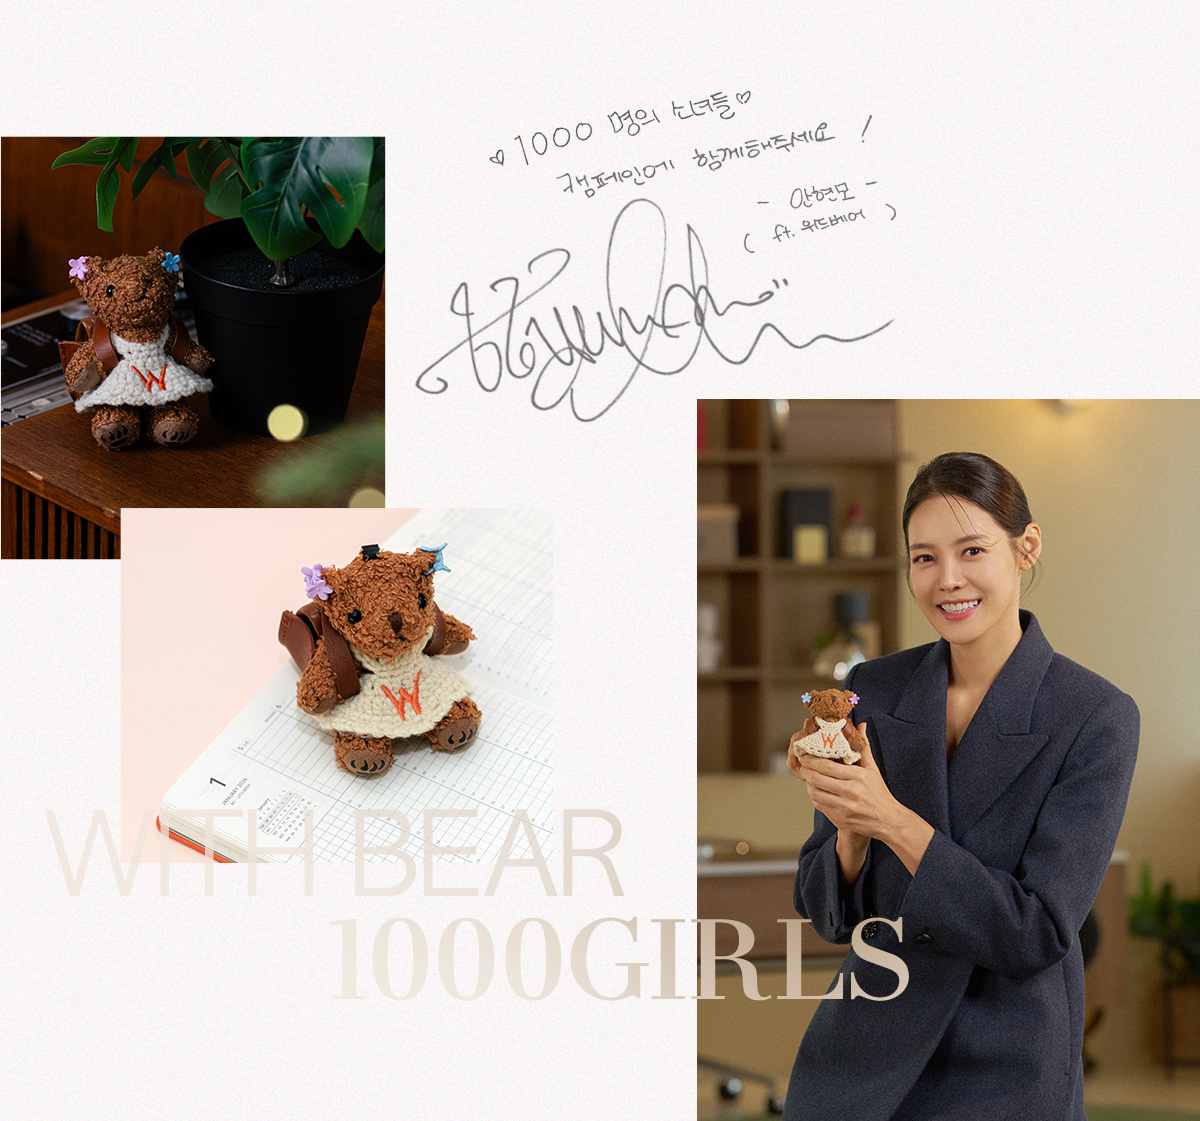
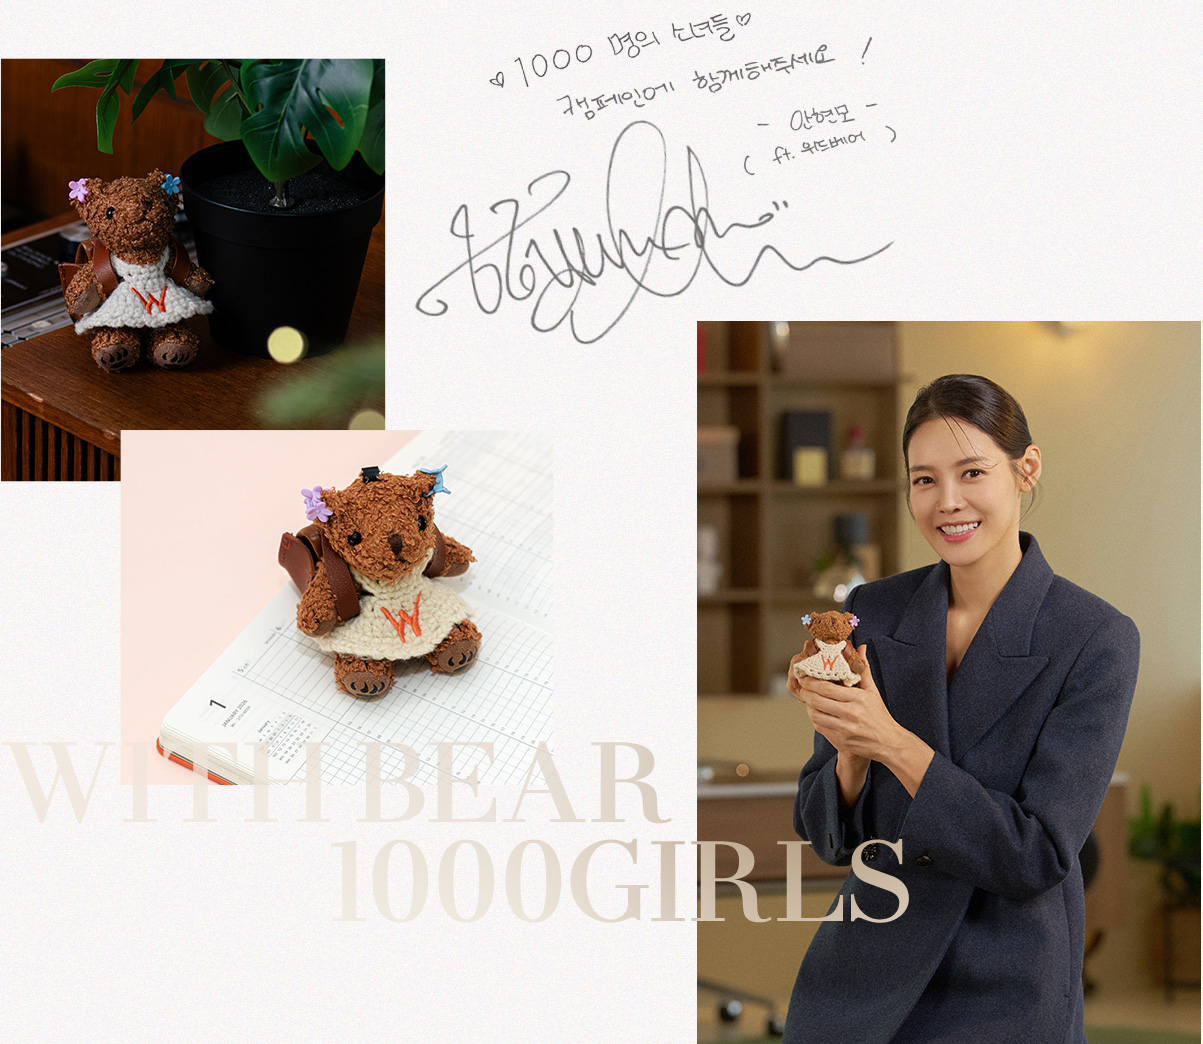
fix:(girlsCeleb) 1차 피드백 반영

diff --git a/apps/2025-1000girlsCeleb/src/js/app.js b/apps/2025-1000girlsCeleb/src/js/app.js
@@ -277,8 +277,11 @@
         const observer08 = new IntersectionObserver((entries, obs) => {
           entries.forEach((entry) => {
             if (entry.isIntersecting) {
-              initSec08();
               obs.disconnect();
+              // 섹션 도달 후 0.5초 후에 슬라이드 시작
+              setTimeout(() => {
+                initSec08();
+              }, 500);
             }
           });
         }, { root: null, threshold: 0.2 });
@@ -288,8 +291,11 @@
           const rect = sec08El.getBoundingClientRect();
           const inView = rect.top < window.innerHeight * 0.8 && rect.bottom > 0;
           if (inView) {
-            initSec08();
             window.removeEventListener('scroll', onScrollCheck08);
+            // 섹션 도달 후 0.5초 후에 슬라이드 시작
+            setTimeout(() => {
+              initSec08();
+            }, 500);
           }
         });
         window.addEventListener('scroll', onScrollCheck08, { passive: true });
@@ -298,22 +304,7 @@
     }
 
 
-    // const swiper_bear = new Swiper('.swiperSec10', {
-    //   slidesPerView: 'auto',
-    //   loop: true,
-    //   slidesPerGroup: 1,
-    //   spaceBetween: 22,
-    //   centeredSlides: true,
-    //   navigation: {
-    //     nextEl: '#sec10-slide-btn-next',
-    //     prevEl: '#sec10-slide-btn-prev'
-    //   },
-    //   pagination: {
-    //     el: '.swiper-pagination',
-    //     clickable: true
-    //   },
 
-    // });
 
 
 
@@ -517,11 +508,32 @@
       e.preventDefault();
       const targetSection = document.querySelector('#section2');
       if (targetSection) {
-        const offsetTop = targetSection.getBoundingClientRect().top + window.pageYOffset;
-        window.scrollTo({
-          top: offsetTop,
-          behavior: 'smooth'
-        });
+        const targetOffsetTop = targetSection.getBoundingClientRect().top + window.pageYOffset;
+        const startPosition = window.pageYOffset;
+        const distance = targetOffsetTop - startPosition;
+        const duration = 1500; // 애니메이션 지속 시간 (밀리초) - 더 느리게 조정 가능
+        let startTime = null;
+
+        const easeInOutCubic = (t) => {
+          return t < 0.5
+            ? 4 * t * t * t
+            : 1 - Math.pow(-2 * t + 2, 3) / 2;
+        };
+
+        const animateScroll = (currentTime) => {
+          if (startTime === null) startTime = currentTime;
+          const timeElapsed = currentTime - startTime;
+          const progress = Math.min(timeElapsed / duration, 1);
+          const easedProgress = easeInOutCubic(progress);
+
+          window.scrollTo(0, startPosition + distance * easedProgress);
+
+          if (progress < 1) {
+            requestAnimationFrame(animateScroll);
+          }
+        };
+
+        requestAnimationFrame(animateScroll);
       }
     });
 
@@ -549,10 +561,59 @@
 
     // 모바일에서 section2부터 floating-button 보이기
     const section2El = document.querySelector('.section2');
+    const section3El = document.querySelector('.section3');
+    const section4El = document.querySelector('.section4');
 
     if (section2El && floatingButtonEl && 'IntersectionObserver' in window) {
+      let isSection3Visible = false;
+
+      // section3 observer: section3이 보이면 show 클래스 제거
+      if (section3El) {
+        const observerSection3 = new IntersectionObserver((entries) => {
+          entries.forEach(entry => {
+            if (entry.isIntersecting) {
+              isSection3Visible = true;
+              floatingButtonEl.classList.remove('show');
+            } else {
+              isSection3Visible = false;
+              // section3을 벗어났을 때 section2가 화면에 보이거나 이미 지나갔으면 show 클래스 추가
+              if (section2El) {
+                const section2Rect = section2El.getBoundingClientRect();
+                // section2가 화면에 보이거나 이미 지나갔으면
+                if (section2Rect.top < window.innerHeight && section2Rect.bottom > 0 || section2Rect.top < 0) {
+                  floatingButtonEl.classList.add('show');
+                }
+              }
+            }
+          });
+        }, {
+          threshold: 0.1
+        });
+        observerSection3.observe(section3El);
+      }
+
+      // section4 observer: section4에 도달하면 show 클래스 추가
+      if (section4El) {
+        const observerSection4 = new IntersectionObserver((entries) => {
+          entries.forEach(entry => {
+            if (entry.isIntersecting || entry.boundingClientRect.top < 0) {
+              floatingButtonEl.classList.add('show');
+            }
+          });
+        }, {
+          threshold: 0.1
+        });
+        observerSection4.observe(section4El);
+      }
+
       const observerSection2 = new IntersectionObserver((entries) => {
         entries.forEach(entry => {
+          // section3이 보이면 show 클래스 제거하고 리턴
+          if (isSection3Visible) {
+            floatingButtonEl.classList.remove('show');
+            return;
+          }
+
           // section2가 보이거나 이미 지나갔으면 show 클래스 추가
           // section2가 아직 도달하지 않았으면 show 클래스 제거
           if (entry.isIntersecting || entry.boundingClientRect.top < 0) {
@@ -568,8 +629,9 @@
       observerSection2.observe(section2El);
     }
 
+
+
     // PC/모바일 공통: section3부터 section1에 hide 클래스 추가/제거
-    const section3El = document.querySelector('.section3');
     const section1El = document.querySelector('.section1');
 
     if (section1El && section2El && 'IntersectionObserver' in window) {
@@ -589,6 +651,8 @@
 
       observerSection2ForHide.observe(section3El);
     }
+
+
 
 
   });

diff --git a/apps/2025-1000girlsCeleb/src/includes/contents.html b/apps/2025-1000girlsCeleb/src/includes/contents.html
@@ -334,27 +334,27 @@
       <div class="swiper swiperSec08">
         <div class="swiper-wrapper">
           <div class="swiper-slide">
-            <img src="/images/sec08-slide01.png" alt="나 위드베어, 조혼 위기 소녀 소피를 구하기 위해 떠난다!">
+            <img src="/images/sec08-slide01.png" alt="나 위드베어, 조혼 위기 소녀 소피를 구하기 위해 떠난다!" class="responsive">
           </div>
           <div class="swiper-slide">
             <img src="/images/sec08-slide02.png" alt="우간다까지 비행기를 타고
-            또 타고.. 소피 조금만 기다려~~">
+            또 타고.. 소피 조금만 기다려~~" class="responsive">
           </div>
           <div class="swiper-slide">
             <img src="/images/sec08-slide03.png" alt="얘들아 소피 어딨는지 아니?
-            앗 잠깐, 쪼면 아프다구">
+            앗 잠깐, 쪼면 아프다구" class="responsive">
           </div>
           <div class="swiper-slide">
             <img src="/images/sec08-slide04.png" alt="드디어 만난 소피!
-            소피 정말 보고 싶었어. 이제 아무 걱정 마.">
+            소피 정말 보고 싶었어. 이제 아무 걱정 마." class="responsive">
           </div>
           <div class="swiper-slide">
             <img src="/images/sec08-slide05.png" alt="조혼목걸이를 벗고 교복 입은 소피.
-              학교에 오니 신나지?">
+              학교에 오니 신나지?" class="responsive">
           </div>
           <div class="swiper-slide">
             <img src="/images/sec08-slide06.png" alt="위드베어도 소피가 꿈을
-              이룰 수 있게 계속 응원 할게!">
+              이룰 수 있게 계속 응원 할게!" class="responsive">
           </div>
         </div>
       </div>

diff --git a/apps/2025-1000girlsCeleb/src/styles/contents/section1.scss b/apps/2025-1000girlsCeleb/src/styles/contents/section1.scss
@@ -10,7 +10,7 @@
     z-index: 0;
     min-height: 100vh;
     display: flex;
-    align-items: center;
+    align-items: end;
 
     &.hide {
       opacity: 0;
@@ -48,7 +48,7 @@
                 font-weight: 400;
                 font-size: clamp(3.6rem, 6vw, 8.7rem);
                 gap: clamp(14px, 3vw, 60px);
-                ;
+                margin-bottom: 10px;
 
                 &::after {
                   content: '';
@@ -98,8 +98,6 @@
           flex: none;
           position: relative;
           right: -60px;
-
-          .model {}
         }
       }
     }
@@ -149,16 +147,35 @@
         flex-direction: column-reverse;
 
         .column {
+
+
           &:first-child {
             position: static;
             margin-top: -60px;
 
+
             .headline {
-              position: relative;
+              width: 100%;
               z-index: 1;
               margin-bottom: 30px;
               position: absolute;
               top: 0;
+              left: 0;
+              display: flex;
+              flex-direction: column;
+              align-items: center;
+
+              h2 {
+
+
+                span {
+                  font-size: clamp(3.6rem, 10vw, 4.4rem);
+                }
+
+                .typing {
+                  font-size: clamp(3.9rem, 10.5vw, 6rem);
+                }
+              }
             }
 
             p {
@@ -192,6 +209,7 @@
       .copy {
         padding: 0 20px;
         top: -25px;
+        width: 100%;
       }
 
       .scrolldown {

diff --git a/apps/2025-1000girlsCeleb/src/includes/faq.html b/apps/2025-1000girlsCeleb/src/includes/faq.html
@@ -126,8 +126,10 @@
                 <p>
                   아래 사진을 참고해 주세요. 측정 방식에 따라 약 ± 0.5cm 정도 편차가 있을 수 있습니다.
                 <div class="box">
-                  <img src="/images/product-sizeGuide01.png" alt="가로 9cm 세로 12cm" />
-                  <img src="/images/product-sizeGuide02.png" alt="가로 9cm 세로 9cm" />
+                  <div class="inner">
+                    <img src="/images/product-sizeGuide01.png" alt="가로 9cm 세로 12cm" />
+                    <img src="/images/product-sizeGuide02.png" alt="가로 9cm 세로 9cm" />
+                  </div>
                 </div>
                 </p>
               </div>

diff --git a/apps/2025-1000girlsCeleb/src/styles/contents/section11.scss b/apps/2025-1000girlsCeleb/src/styles/contents/section11.scss
@@ -149,13 +149,17 @@
               }
 
               .box {
+                display: block;
                 margin-top: 16px;
-                display: inline-flex;
-                gap: 16px;
-                flex-wrap: wrap;
-                background-color: #eef2f1;
-                border-radius: 20px;
-                padding: 44px;
+
+                .inner {
+                  display: inline-flex;
+                  background-color: #eef2f1;
+                  border-radius: 20px;
+                  gap: 16px;
+                  flex-wrap: wrap;
+                  padding: 44px;
+                }
 
                 img {
                   max-width: 100%;

diff --git a/apps/2025-1000girlsCeleb/src/styles/contents/section8.scss b/apps/2025-1000girlsCeleb/src/styles/contents/section8.scss
@@ -66,6 +66,7 @@
         .swiper-slide {
           img {
             width: auto !important;
+            height: 400px;
           }
         }
       }
